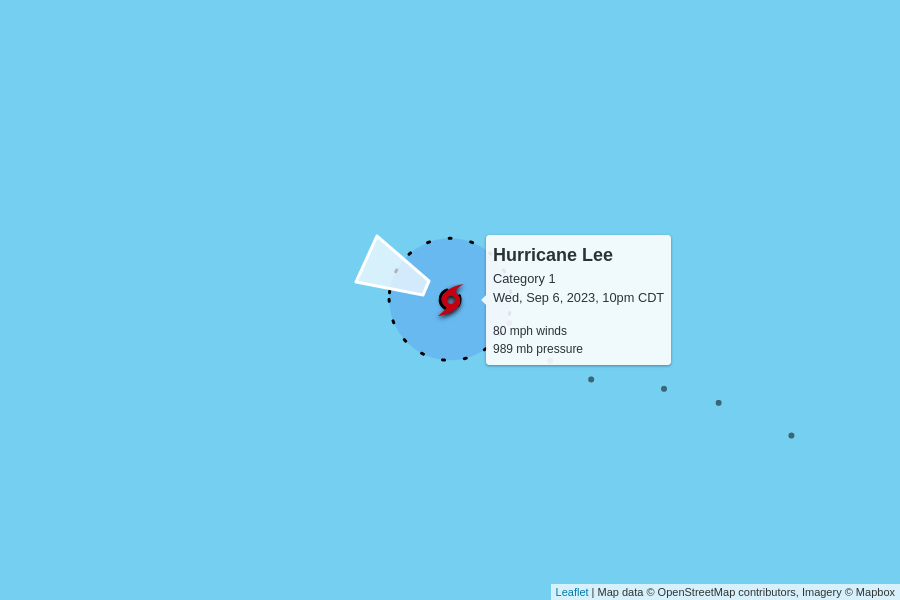
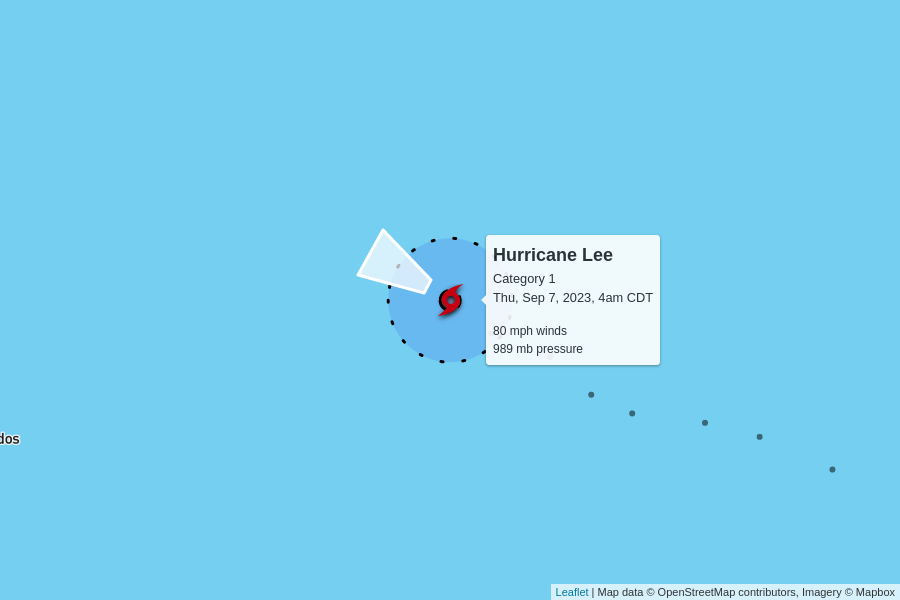
automatic update

diff --git a/docs/index.html b/docs/index.html
@@ -102,7 +102,7 @@
         <td colspan="6" class="storm category-1" >
           <h2>
             Hurricane Lee - Category 1
-            <p class="updated">last updated <span data-time>2023-09-07T03:00:00.000Z</span></p>
+            <p class="updated">last updated <span data-time>2023-09-07T09:00:00.000Z</span></p>
           </h2>
         </td>
       </tr>
@@ -117,12 +117,12 @@
       </tr>
       <tr>
         <td class="spacer"></td>
-        <td>80 mph<br>+5 mph since last update</td>
-        <td>989 mb<br>-2 mb since last update</td>
+        <td>80 mph<br>0 mph since last update</td>
+        <td>989 mb<br>0 mb since last update</td>
         <td>
-          14 mph to the west-northwest
+          13 mph to the west-northwest
           <br/>
-          <span style="display: inline-block; font-size: 1.5em; transform: rotate(295deg);">↑</span>
+          <span style="display: inline-block; font-size: 1.5em; transform: rotate(300deg);">↑</span>
         </td>
         <td><a href="https://raw.githubusercontent.com/mgwalker/atlantic-hurricanes/main/data/csv/AL132023.csv">AL132023.csv</a></td>
         <td><a href="https://www.nhc.noaa.gov/archive/2023/LEE.shtml?">NHC advisories</a></td>
